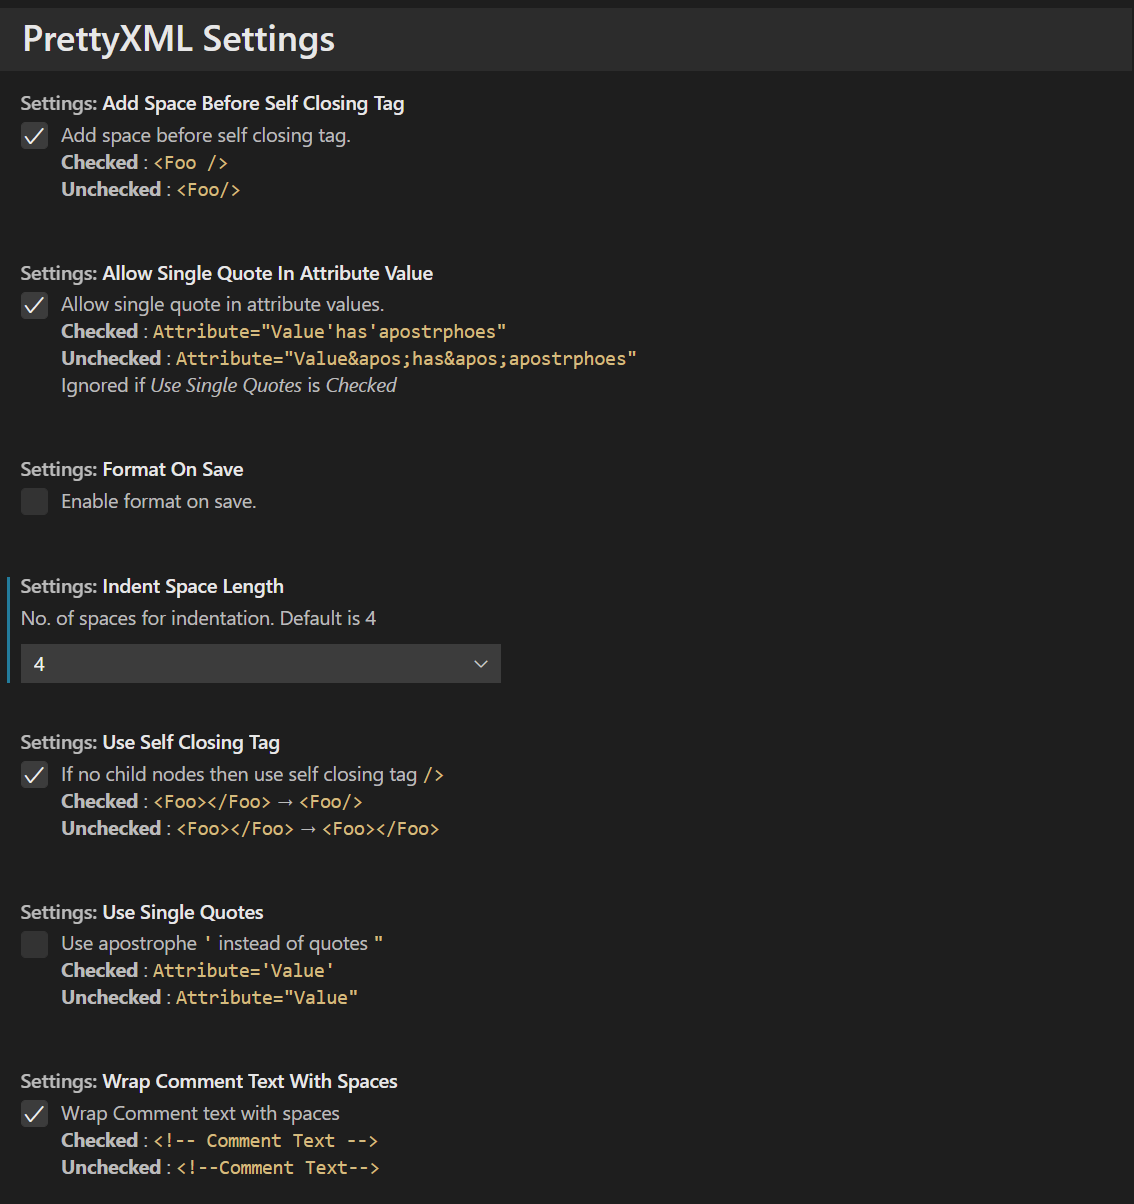
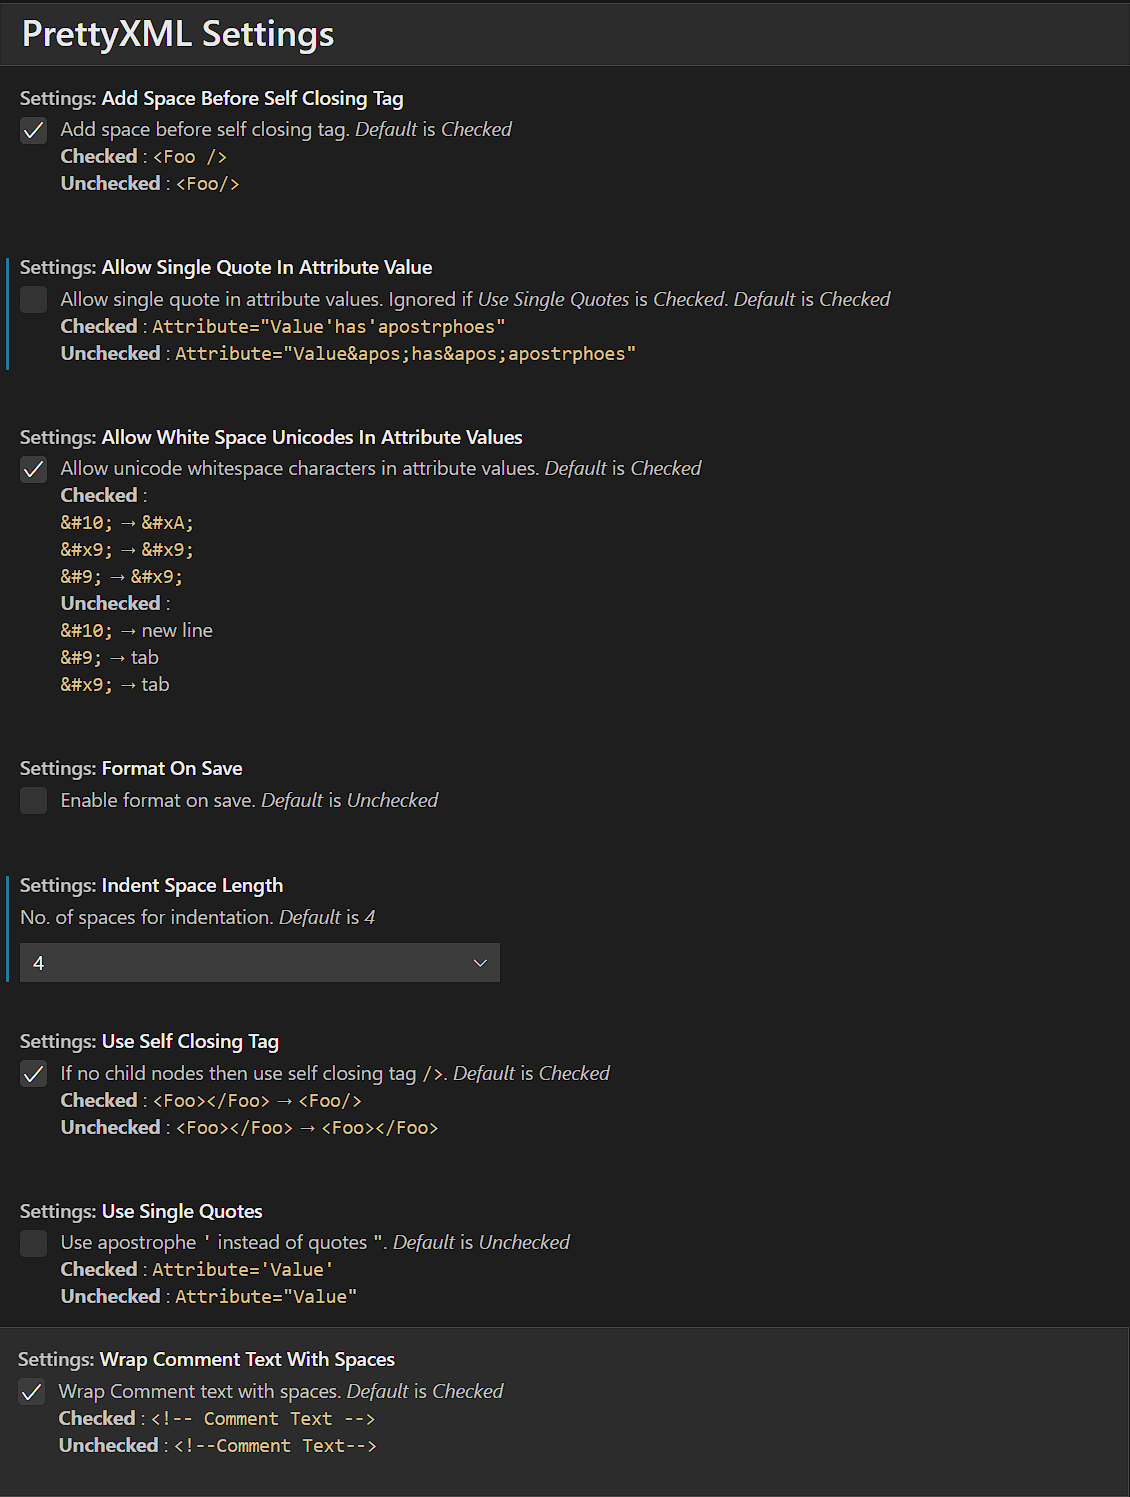
Added setting prettyxml.settings.allowWhiteSpaceUnicodesInAttributeValues (#73)
* Added setting prettyxml.settings.allowWhiteSpaceUnicodesInAttributeValues

* fixed typo

* v0.10.0

diff --git a/src/extension.ts b/src/extension.ts
@@ -72,7 +72,7 @@ export function activate(context: vscode.ExtensionContext)
 			});
 
 
-		vscode.workspace.onDidSaveTextDocument(async (document: vscode.TextDocument) => { await formatOnSave(); });
+		vscode.workspace.onDidSaveTextDocument(async () => { await formatOnSave(); });
 
 		//subscribe commands
 		context.subscriptions.push(prettifyXmlCommand, minimizeXmlCommand);
@@ -98,8 +98,16 @@ async function format()
 		let allowSingleQuoteInAttributeValue = vscode.workspace.getConfiguration('prettyxml.settings').get<boolean>('allowSingleQuoteInAttributeValue');
 		let addSpaceBeforeSelfClosingTag = vscode.workspace.getConfiguration('prettyxml.settings').get<boolean>('addSpaceBeforeSelfClosingTag');
 		let wrapCommentTextWithSpaces = vscode.workspace.getConfiguration('prettyxml.settings').get<boolean>('wrapCommentTextWithSpaces');
+		let allowWhiteSpaceUnicodesInAttributeValues = vscode.workspace.getConfiguration('prettyxml.settings').get<boolean>('allowWhiteSpaceUnicodesInAttributeValues');
 
-		var settings = new Settings(spacelength, usesinglequotes, useselfclosetag, formatOnSave, allowSingleQuoteInAttributeValue, addSpaceBeforeSelfClosingTag, wrapCommentTextWithSpaces);
+		var settings = new Settings(spacelength,
+			usesinglequotes,
+			useselfclosetag,
+			formatOnSave,
+			allowSingleQuoteInAttributeValue,
+			addSpaceBeforeSelfClosingTag,
+			wrapCommentTextWithSpaces,
+			allowWhiteSpaceUnicodesInAttributeValues);
 
 		var docText = vscode?.window.activeTextEditor?.document?.getText();
 		var ranger = getEditorRange();
@@ -121,7 +129,8 @@ async function format()
 				settings.UseSelfClosingTags,
 				settings.AllowSingleQuoteInAttributeValue,
 				settings.AddSpaceBeforeSelfClosingTag,
-				settings.WrapCommentTextWithSpaces
+				settings.WrapCommentTextWithSpaces,
+				settings.AllowWhiteSpaceUnicodesInAttributeValues
 			);
 
 			var inputstr = JSON.stringify(jsinput);

diff --git a/src/settings.ts b/src/settings.ts
@@ -8,6 +8,7 @@ export interface ISettings
     AllowSingleQuoteInAttributeValue: boolean;
     AddSpaceBeforeSelfClosingTag: boolean;
     WrapCommentTextWithSpaces: boolean;
+    AllowWhiteSpaceUnicodesInAttributeValues: boolean;
 }
 
 export const DefaultSettings: ISettings = {
@@ -17,7 +18,8 @@ export const DefaultSettings: ISettings = {
     FormatOnSave: false,
     AllowSingleQuoteInAttributeValue: true,
     AddSpaceBeforeSelfClosingTag: true,
-    WrapCommentTextWithSpaces: true
+    WrapCommentTextWithSpaces: true,
+    AllowWhiteSpaceUnicodesInAttributeValues: true
 };
 
 export class Settings
@@ -29,6 +31,7 @@ export class Settings
     AllowSingleQuoteInAttributeValue?: boolean;
     AddSpaceBeforeSelfClosingTag?: boolean;
     WrapCommentTextWithSpaces?: boolean;
+    AllowWhiteSpaceUnicodesInAttributeValues?: boolean;
 
     constructor(indentLengh?: number,
         useSingleQuotes?: boolean,
@@ -36,7 +39,8 @@ export class Settings
         formatOnSave?: boolean,
         allowSingleQuoteInAttributeValue?: boolean,
         addSpaceBeforeSelfClosingTag?: boolean,
-        wrapCommentTextWithSpaces?: boolean)
+        wrapCommentTextWithSpaces?: boolean,
+        allowWhiteSpaceUnicodesInAttributeValues?: boolean)
     {
         this.IndentLength = indentLengh ?? DefaultSettings.IndentLength;
         this.UseSingleQuotes = useSingleQuotes ?? DefaultSettings.UseSingleQuotes;
@@ -45,5 +49,6 @@ export class Settings
         this.AllowSingleQuoteInAttributeValue = allowSingleQuoteInAttributeValue;
         this.AddSpaceBeforeSelfClosingTag = addSpaceBeforeSelfClosingTag ?? DefaultSettings.AddSpaceBeforeSelfClosingTag;
         this.WrapCommentTextWithSpaces = wrapCommentTextWithSpaces ?? DefaultSettings.WrapCommentTextWithSpaces;
+        this.AllowWhiteSpaceUnicodesInAttributeValues = allowWhiteSpaceUnicodesInAttributeValues;
     }
 }

diff --git a/src/jsinputdto.ts b/src/jsinputdto.ts
@@ -1,16 +1,6 @@
 /* eslint-disable @typescript-eslint/naming-convention */
 
 import { DefaultSettings } from "./settings";
-interface IJSInputDto
-{
-    XMLString: string;
-    IndentLength?: number;
-    UseSingleQuotes?: boolean;
-    UseSelfClosingTags?: boolean;
-    AllowSingleQuoteInAttributeValue?: boolean;
-    AddSpaceBeforeSelfClosingTag?: boolean;
-    WrapCommentTextWithSpaces?: boolean;
-}
 
 export class JSInputDTO
 {
@@ -21,6 +11,7 @@ export class JSInputDTO
     AllowSingleQuoteInAttributeValue: boolean;
     AddSpaceBeforeSelfClosingTag: boolean;
     WrapCommentTextWithSpaces: boolean;
+    AllowWhiteSpaceUnicodesInAttributeValues: boolean;
 
     constructor(xmlString: string,
         indentLength: number = DefaultSettings.IndentLength,
@@ -28,7 +19,8 @@ export class JSInputDTO
         useSelfClosingTags: boolean = DefaultSettings.UseSelfClosingTags,
         allowSingleQuoteInAttributeValue: boolean = DefaultSettings.AllowSingleQuoteInAttributeValue,
         addSpaceBeforeSelfClosingTag: boolean = DefaultSettings.AddSpaceBeforeSelfClosingTag,
-        wrapCommentTextWithSpaces: boolean = DefaultSettings.WrapCommentTextWithSpaces)
+        wrapCommentTextWithSpaces: boolean = DefaultSettings.WrapCommentTextWithSpaces,
+        allowWhiteSpaceUnicodesInAttributeValues: boolean = DefaultSettings.AllowWhiteSpaceUnicodesInAttributeValues)
     {
         this.XMLString = xmlString;
         this.IndentLength = indentLength;
@@ -37,5 +29,6 @@ export class JSInputDTO
         this.AllowSingleQuoteInAttributeValue = allowSingleQuoteInAttributeValue;
         this.AddSpaceBeforeSelfClosingTag = addSpaceBeforeSelfClosingTag;
         this.WrapCommentTextWithSpaces = wrapCommentTextWithSpaces;
+        this.AllowWhiteSpaceUnicodesInAttributeValues = allowWhiteSpaceUnicodesInAttributeValues;
     }
 }

diff --git a/README.md b/README.md
@@ -5,7 +5,7 @@
 Pretty XML is a XML formatter extension for Visual Studio Code and VSCodium. It formats XML documents just like Visual Studio on Windows.
 **Supported file extensions**: xml, xaml, xsd, xsl, plist, mobileconfig, config, csproj, axml, resx and all other XML type of files.
 
-There is also **Visual Studio for Mac** version of this extension. Check it out at [PrettyXML.VSMac](https://github.com/pmahend1/PrettyXML.VSMac)  
+There is also **Visual Studio for Mac** version of this extension. Check it out at [PrettyXML.VSMac](https://github.com/pmahend1/PrettyXML.VSMac)
 
 Suggestions , improvement PRs are welcome.
 
@@ -15,78 +15,71 @@ Suggestions , improvement PRs are welcome.
 
 ![Deploy](https://img.shields.io/github/workflow/status/pmahend1/prettyxml/Deploy%20CI?color=brightgreen&label=Deploy%20CI&style=flat-square&logo=github) ![Installs](https://vsmarketplacebadge.apphb.com/installs/PrateekMahendrakar.PrettyXML.svg?style=flat-square&label=Installs&logo=data:img/png:images/logo.png) ![Downloads](https://vsmarketplacebadge.apphb.com/downloads/PrateekMahendrakar.PrettyXML.svg?style=flat-square&label=Downloads) ![Rating](https://vsmarketplacebadge.apphb.com/rating-star/PrateekMahendrakar.PrettyXML.svg?style=flat-square&label=Rating)
 
-<!-- ![Trending-Weekly](https://vsmarketplacebadge.apphb.com/trending-weekly/PrateekMahendrakar.PrettyXML.svg?labelColor=red&logo=tinder&logoColor=white&label=Trending%20Weekly) ![Trending-Monthly](https://vsmarketplacebadge.apphb.com/trending-monthly/PrateekMahendrakar.PrettyXML.svg?labelColor=red&logo=tinder&logoColor=white&label=Trending%20Monthly) -->
-
 [<img src="https://cdn.buymeacoffee.com/buttons/v2/default-blue.png" width="150" height="40" />](https://www.buymeacoffee.com/pmahend1)
 
 ---
+
 ![prettify gif](./images/Prettify.gif)
 
 ## Features
 
-1. ### Prettify XML (XML Formatting)
+### 1. Prettify XML (XML Formatting)
 
-   Right Click and Select Prettify XML or use [shortcut](#keyboard-shortcuts)
+Right Click and Select Prettify XML or use [shortcut](#keyboard-shortcuts)
 
-   - First attribute on same line as start tag.
-   - All attributes indented aligning with first attribute.
-   - If no child for an element then close inline end tag.(Setting)
-   - No empty lines.
+- First attribute on same line as start tag.
+- All attributes indented aligning with first attribute.
+- If no child for an element then close inline end tag.(Setting)
+- No empty lines.
+- Supports `'` and whitespace unicodes in attribute value for XAML parser compatibility.
 
-2. ### Pretty XML: Minimize
+  _before_
 
-   Minimizes XML.
+![Before](./images/before.png)
 
-## GIFs
-
-### Prettify XML
-
-- *before*  
-
- ![Before](./images/before.png)
-
-- **After**  
+**After**
 
 ![After](./images/after.png)
 
+### 2. ### Pretty XML: Minimize
 
-### PrettyXML: Minimize
+Minimizes XML.
 
 ![minimize gif](./images/Minimize.gif)
 
 ## Keyboard Shortcuts
 
 | Command             | Platform       | Shortcut         |
-|---------------------|----------------|------------------|
+| ------------------- | -------------- | ---------------- |
 | Prettify XML        | Mac            | **Cmd+K L**      |
 | Prettify XML        | Windows, Linux | **Control+K L**  |
 | PrettyXML: Minimize | Mac            | **Cmd+K \`**     |
 | PrettyXML: Minimize | Windows, Linux | **Control+K \`** |
 
 > **Note**
-> 
->  You can change these in **Preferences → Keyboard Shortcuts**  if you want.
-
+>
+> You can change these in **Preferences → Keyboard Shortcuts** if you want.
 
 ## Settings
 
 These will be for **Prettify XML** command.
 
-| Setting Key                                         | Default Value | Description                                     |
-|-----------------------------------------------------|---------------|-------------------------------------------------|
-| prettyxml.settings.indentSpaceLength                | 4             | No. of spaces for indentation.                  |
-| prettyxml.settings.useSingleQuotes                  | false         | Use ' instead of \"                             |
-| prettyxml.settings.useSelfClosingTag                | true          | If no child nodes then self closing tag />      |
-| prettyxml.settings.formatOnSave                     | false         | Enable format on save                           |
-| prettyxml.settings.allowSingleQuoteInAttributeValue | true          | Allows ' in attribute values instead of \&apos; |
-| prettyxml.settings.addSpaceBeforeSelfClosingTag     | true          | Adds space before self closing tag              |
-| prettyxml.settings.wrapCommentTextWithSpaces        | true          | Wraps comment text with a single space          |
+| Setting Key                                                 | Default Value | Description                                     |
+| ----------------------------------------------------------- | ------------- | ----------------------------------------------- |
+| prettyxml.settings.indentSpaceLength                        | 4             | No. of spaces for indentation.                  |
+| prettyxml.settings.useSingleQuotes                          | false         | Use ' instead of \"                             |
+| prettyxml.settings.useSelfClosingTag                        | true          | If no child nodes then self closing tag />      |
+| prettyxml.settings.formatOnSave                             | false         | Enable format on save                           |
+| prettyxml.settings.allowSingleQuoteInAttributeValue         | true          | Allows ' in attribute values instead of \&apos; |
+| prettyxml.settings.addSpaceBeforeSelfClosingTag             | true          | Adds space before self closing tag              |
+| prettyxml.settings.wrapCommentTextWithSpaces                | true          | Wraps comment text with a single space          |
+| prettyxml.settings.allowWhiteSpaceUnicodesInAttributeValues | true          | Allows white space unicodes in attribute values |
 
 ![Settings Image](./images/settings.png)
 
 ## Requirements
 
-VS Code 1.48 or higher.
+VS Code 1.58 or higher.
 
 ## Installation
 
@@ -95,7 +88,7 @@ Visual Studio Code - [Visual Studio MarketPlace](https://marketplace.visualstudi
 For VSCodium - [open-vsx.org](https://open-vsx.org/extension/PrateekMahendrakar/prettyxml)
 
 > **Important!**
-> 
+>
 > You will need .Net SDK or Mono installed on your machine.
 
 ## Known Issues
@@ -110,4 +103,3 @@ See [Change Log](./CHANGELOG.md)
 ### For more information
 
 - [Source Code](https://github.com/pmahend1/prettyxml)
-

diff --git a/CHANGELOG.md b/CHANGELOG.md
@@ -2,12 +2,18 @@
 
 ## Preview
 
-### 0.9.0 : 07-Jul-2021
+
+### 0.10.0 : 31-Jul-2021
+
+- Added setting  `prettyxml.settings.allowWhiteSpaceUnicodesInAttributeValues`
+- Updated **Readme.md**.  
+
+### 0.9.0 : 30-Jul-2021
+
 - Added settings : 
     - `prettyxml.settings.allowSingleQuoteInAttributeValue`
     - `prettyxml.settings.addSpaceBeforeSelfClosingTag`
     - `prettyxml.settings.wrapCommentTextWithSpaces`
-
 - Updated **Readme.md**.  
 
 ### 0.8.1
